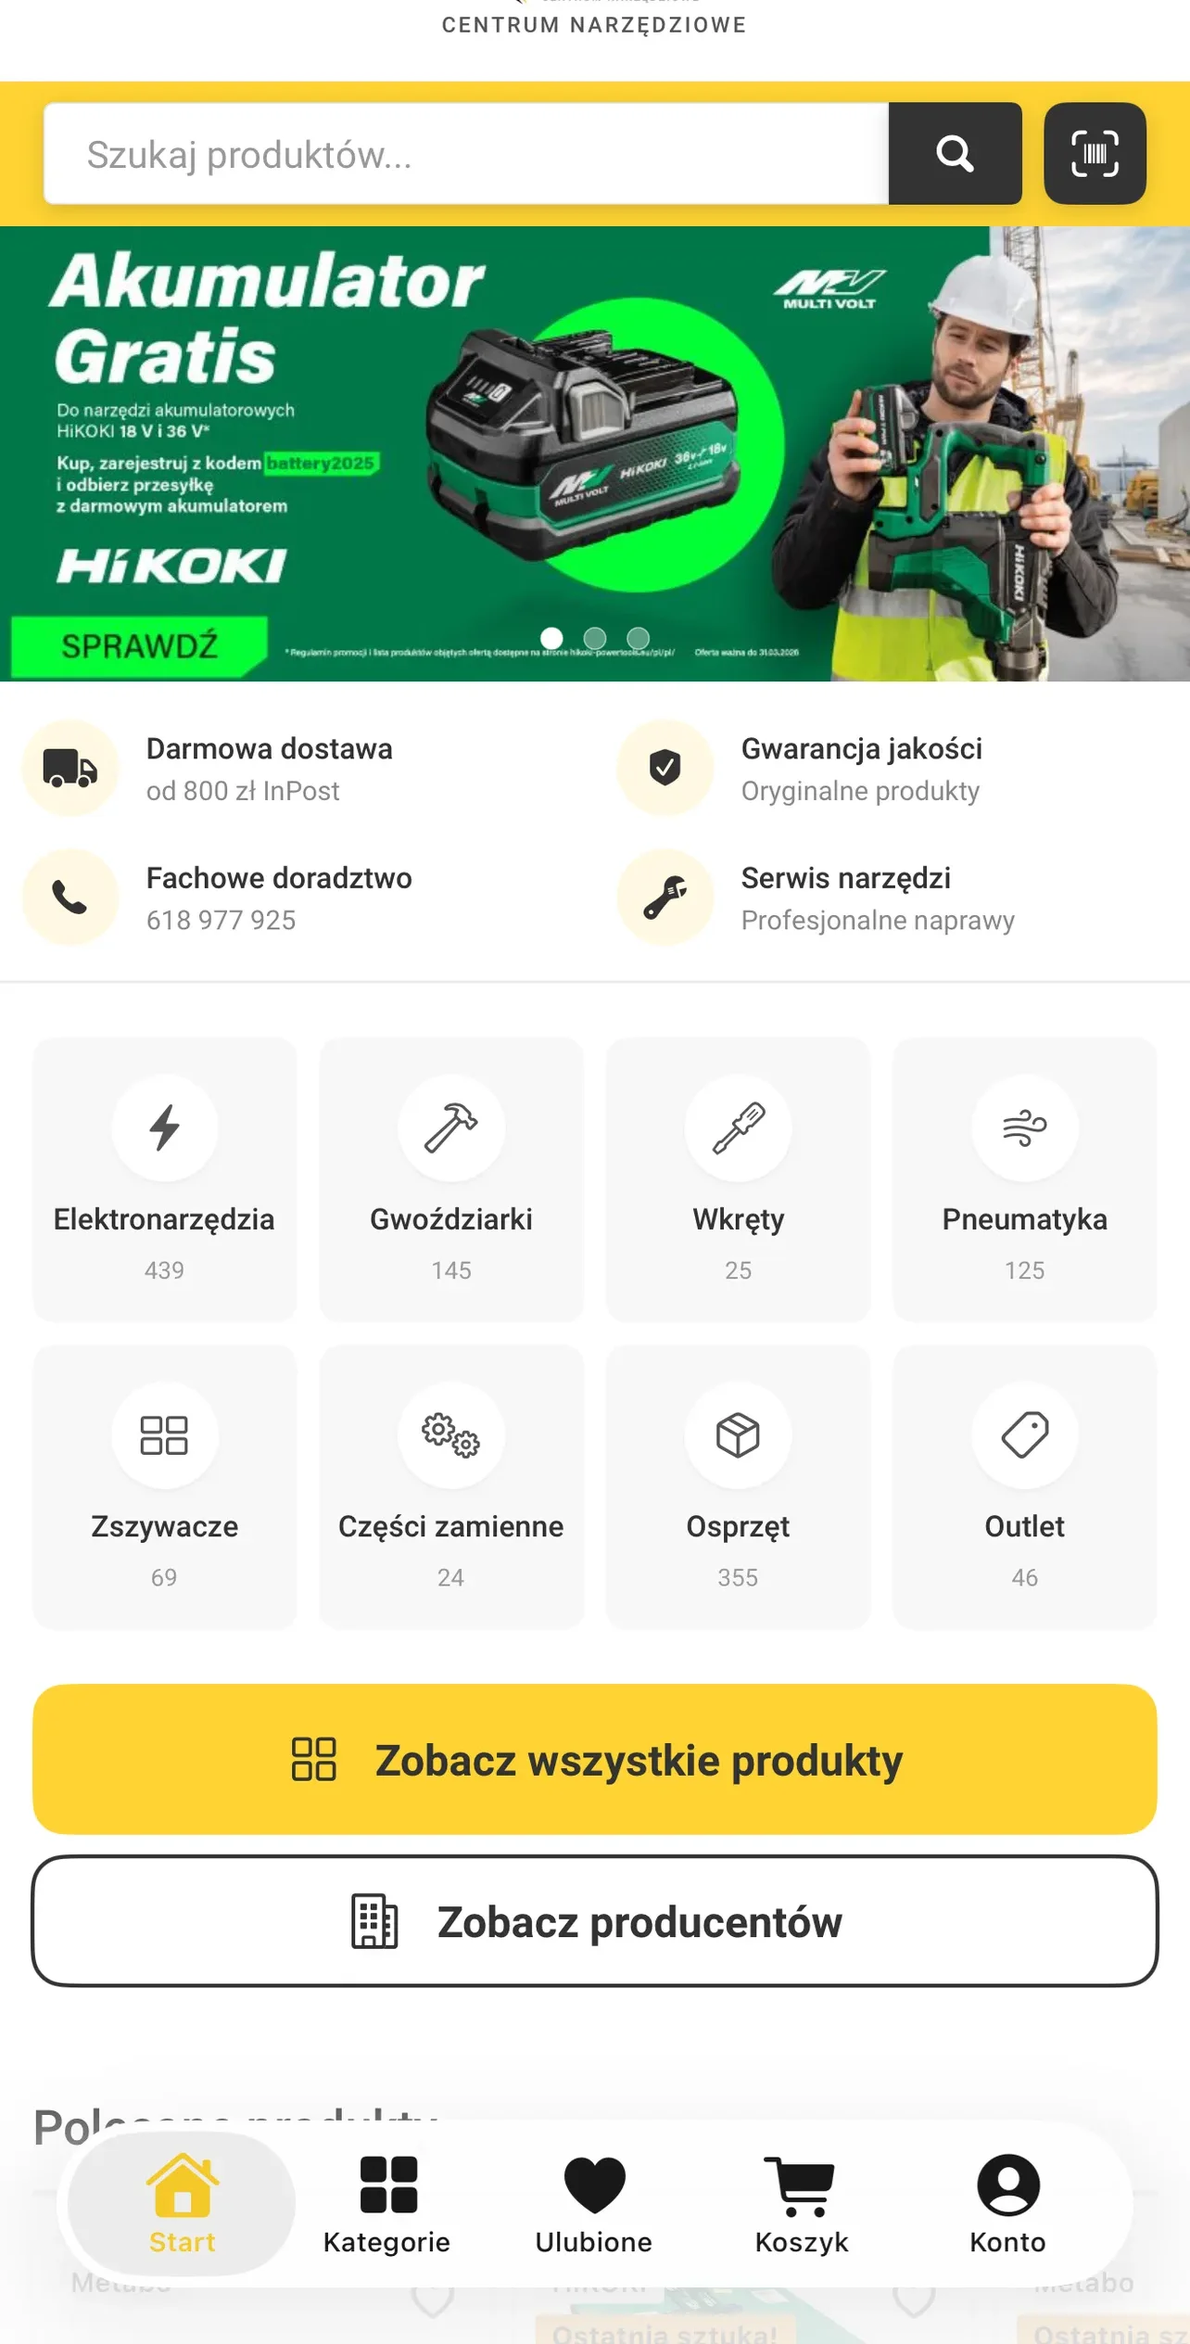
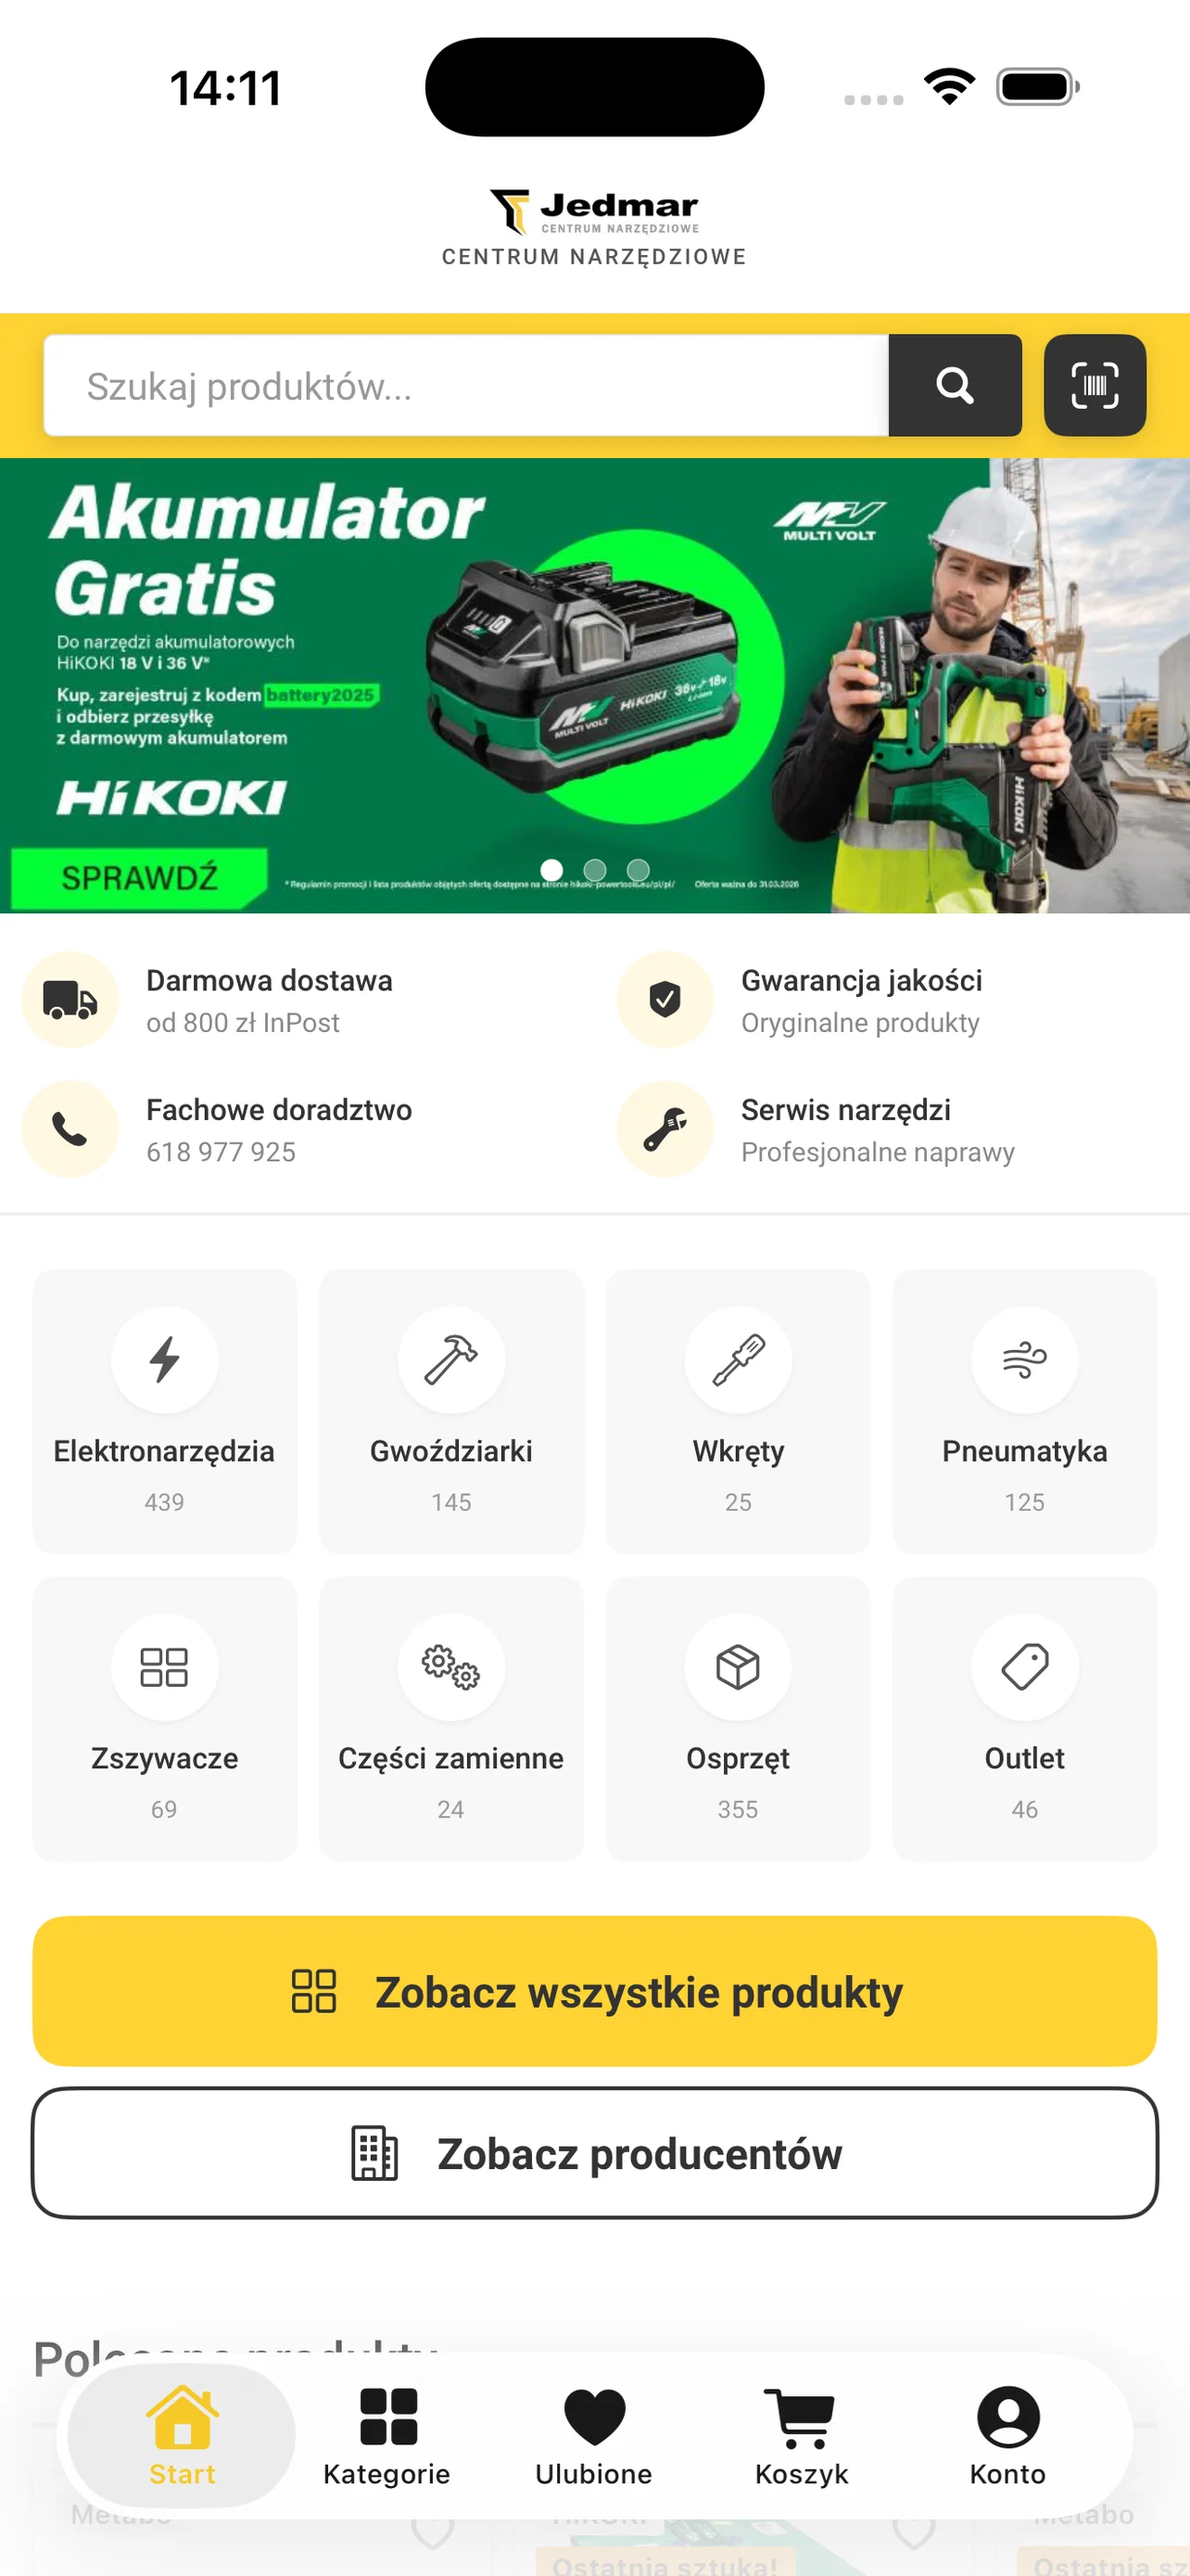
fix(ui): exact-fit phone screenshots — restore original App Store shots, screen aspect matches capture 1:1, ownStatusBar prop skips CSS island

diff --git a/src/components/ui/phone-frame.tsx b/src/components/ui/phone-frame.tsx
@@ -12,6 +12,12 @@ import Image from "next/image";
  * Dimensions are in container-query units so the phone keeps identical
  * proportions at every rendered width (reference: 286px-wide estalo mockup).
  *
+ * The screen aspect exactly matches a 390×844 / 1284×2778 capture, so the
+ * screenshot fits 1:1 — no crop, no zoom.
+ *
+ * `ownStatusBar` — set for real device captures (App Store shots) that already
+ * include the OS status bar and dynamic island; the frame then skips drawing
+ * its own island so the two never double up.
  * `scrollOnHover` eases the (taller-than-frame) screenshot upward on hover to
  * reveal more of the page — desktop only.
  * `fadeBottom` fades the lower screen edge — used when a card intentionally
@@ -24,6 +30,7 @@ export default function PhoneFrame({
   height = 844,
   scrollOnHover = false,
   fadeBottom = false,
+  ownStatusBar = false,
   priority = false,
   className,
 }: {
@@ -33,6 +40,7 @@ export default function PhoneFrame({
   height?: number;
   scrollOnHover?: boolean;
   fadeBottom?: boolean;
+  ownStatusBar?: boolean;
   priority?: boolean;
   className?: string;
 }) {
@@ -43,7 +51,7 @@ export default function PhoneFrame({
       <div aria-hidden="true" className="absolute -right-[0.7cqw] top-[31%] h-[27%] w-[0.9cqw] rounded-[1cqw] bg-gradient-to-b from-[#51565e] to-[#20242b]" />
 
       {/* Rail: single layer — diagonal graphite gradient + inset rings */}
-      <div className="group relative aspect-[286/600] w-full select-none rounded-[16.4cqw] bg-[linear-gradient(145deg,#4a4f57_0%,#20242b_16%,#0c0e12_50%,#20242b_84%,#4a4f57_100%)] p-[3.5cqw] shadow-[0_2px_3px_rgba(2,6,23,0.14),0_48px_80px_-30px_rgba(2,6,23,0.55),inset_0_0_0_1px_rgba(255,255,255,0.16),inset_0_0_2px_2.5px_rgba(0,0,0,0.5)]">
+      <div className="group relative aspect-[100/208.2] w-full select-none rounded-[16.4cqw] bg-[linear-gradient(145deg,#4a4f57_0%,#20242b_16%,#0c0e12_50%,#20242b_84%,#4a4f57_100%)] p-[3.5cqw] shadow-[0_2px_3px_rgba(2,6,23,0.14),0_48px_80px_-30px_rgba(2,6,23,0.55),inset_0_0_0_1px_rgba(255,255,255,0.16),inset_0_0_2px_2.5px_rgba(0,0,0,0.5)]">
         {/* Screen — set directly in the rail, hairline inset keeps the edge crisp */}
         <div
           className={`relative h-full w-full overflow-hidden rounded-[13.3cqw] bg-surface shadow-[inset_0_0_0_1.5px_rgba(0,0,0,0.55)] ${
@@ -66,8 +74,10 @@ export default function PhoneFrame({
             }`}
           />
         </div>
-        {/* Dynamic island */}
-        <div className="pointer-events-none absolute left-1/2 top-[5.6cqw] z-10 h-[8.4cqw] w-[28.7cqw] -translate-x-1/2 rounded-full bg-[#05070a] shadow-[inset_0_0_0_0.5px_rgba(255,255,255,0.05)]" />
+        {/* Dynamic island — skipped when the screenshot brings its own status bar */}
+        {!ownStatusBar && (
+          <div className="pointer-events-none absolute left-1/2 top-[5.6cqw] z-10 h-[8.4cqw] w-[28.7cqw] -translate-x-1/2 rounded-full bg-[#05070a] shadow-[inset_0_0_0_0.5px_rgba(255,255,255,0.05)]" />
+        )}
       </div>
     </div>
   );

diff --git a/src/components/featured-work.tsx b/src/components/featured-work.tsx
@@ -38,7 +38,7 @@ const STATUS_LABELS: Record<ProjectStatus, { pl: string; en: string }> = {
 // the mobile web capture, then anything.
 function phoneShot(project: Project): string | undefined {
   const shots = project.screenshots ?? [];
-  return shots.find((s) => /-app\d/.test(s)) ?? shots.find((s) => /mobile/.test(s)) ?? shots[0];
+  return shots.find((s) => /-app[-\d]/.test(s)) ?? shots.find((s) => /mobile/.test(s)) ?? shots[0];
 }
 
 // Small overlay pill with the real domain — keeps the "this is live" trust cue
@@ -75,7 +75,7 @@ function CardMedia({ project }: { project: Project }) {
       >
         {src && (
           <div className="w-[46%] max-w-[150px] shrink-0 transition-transform duration-500 ease-out group-hover:-translate-y-1.5">
-            <PhoneFrame src={src} alt={project.title} fadeBottom />
+            <PhoneFrame src={src} alt={project.title} fadeBottom ownStatusBar={/-app[-\d]/.test(src)} />
           </div>
         )}
         {project.liveUrl && <DomainPill url={project.liveUrl} />}

diff --git a/src/app/projects/[slug]/ProjectDetailClient.tsx b/src/app/projects/[slug]/ProjectDetailClient.tsx
@@ -108,6 +108,7 @@ function HeroDevices({ project, lang }: { project: Project; lang: Lang }) {
               <PhoneFrame
                 src={src}
                 alt={`${project.title} — ${lang === "pl" ? "ekran aplikacji" : "app screen"} ${i + 1}`}
+                ownStatusBar={isAppShot(src)}
                 priority={i === 0}
               />
             </div>
@@ -201,7 +202,7 @@ function Gallery({ project, lang }: { project: Project; lang: Lang }) {
             <Reveal key={src} delay={i * 0.08}>
               {isPhoneShot(src) && !isDesktopShot(src) ? (
                 <div className="mx-auto w-[200px]">
-                  <PhoneFrame src={src} alt={`${project.title} — ${i + 1}`} />
+                  <PhoneFrame src={src} alt={`${project.title} — ${i + 1}`} ownStatusBar={isAppShot(src)} />
                 </div>
               ) : (
                 <BrowserFrame

diff --git a/src/components/home/portfolio-grid.tsx b/src/components/home/portfolio-grid.tsx
@@ -83,6 +83,7 @@ export default function PortfolioGrid() {
                             src={card.src}
                             alt={`${project.title} — aplikacja mobilna`}
                             fadeBottom
+                            ownStatusBar
                           />
                         </div>
                       </div>

diff --git a/progress.md b/progress.md
@@ -143,3 +143,9 @@
 **Weryfikacja:** tsc, 98/98 testów, build; header sprawdzony wizualnie na 768/1024/1280, telefony na detalu Jedmara (3 szt.), /projekty 768 (2 kolumny kart OK), pooltimer 1920 premium. Cache obrazów .next/cache/images czyszczony po podmianie assetów (inaczej serwuje stare wersje!).
 
 **Status:** wdrożone na prod.
+
+## 2026-07-15 — Fix "powiększonych" zrzutów w telefonach
+
+**Przyczyna:** wcześniejsze docięcie góry zrzutów apki (250px) zmieniło ich proporcje (0.508 vs ekran ramki 0.459) — object-cover skalował i przycinał boki = efekt zoomu. **Naprawa:** przywrócone ORYGINALNE zrzuty App Store (1284×2778, z paskiem systemowym i wyspą); geometria PhoneFrame przeliczona tak, by ekran = dokładnie 0.4622 (aspect 100/208.2, padding 3.5cqw) — zrzut pasuje 1:1 bez cropu; nowy prop `ownStatusBar` wyłącza rysowaną wyspę CSS, gdy zrzut ma własną (przekazany we wszystkich call sites przez matcher /-app[-\d]/; naprawiony też stary matcher /-app\d/ w featured-work). Reguła na przyszłość: zrzutów urządzeń NIE docinać — ramka ma pasować do zrzutu, nie odwrotnie.
+
+**Weryfikacja:** tsc, 98/98, build; hero Jedmara — naturalna skala, pasek systemowy 14:11/wifi/bateria, jedna wyspa.
